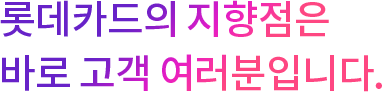
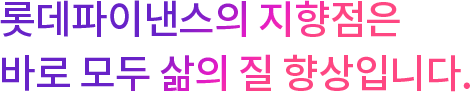
ceo 인사말 수정 및 베트남/영어 페이지 추가

diff --git a/web/company/Web-04.01.02.html b/web/company/Web-04.01.02.html
@@ -395,7 +395,7 @@
 
 			<div class="page-title-area">
 				<div class="inner-box">
-					<h2 class="page-title">CEO인사말</h2>
+					<h2 class="page-title">Lời chào từ CEO</h2>
 					<div class="layer">
 						<a href="../company/Web-04.01.html" class="link">CEO인사말</a>
 						<a href="../company/Web-04.02.01.html" class="link">회사개요</a>
@@ -411,10 +411,10 @@
 		<div class="ceo-visual">
 			<div class="box-inner">
 				<div class="visual-text">
-					<span class="tit"><img src="../images/img/txt_vaual02.png" alt="롯데파이낸스의 지향점은 바로 모두 삶의 질 향상입니다."></span>
+					<span class="tit"><img src="../images/img/txt_vaual02_02.png" alt="Mục tiêu cuối cùng của Lotte Finance là cải thiện chất lượng trong mọi khía cạnh của cuộc sống."></span>
 					<!-- p>항상 고객님께 듣고, 고객님으로부터 답을 찾아, 고객님께 돌려드리겠습니다.</p -->
 					<div class="name-box">
-						롯데파이낸스 법인장
+						Tổng Giám đốc Lotte Finance.
 						<span class="name"><img src="../images/img/txt_sign.png" alt=""></span>
 					</div>
 				</div>
@@ -423,18 +423,16 @@
 		</div>
 		<div class="content">
 			<div class="intro-text">
-				<p class="text1">안녕하십니까, 롯데파이낸스 법인장 김종극입니다.</p>
+				<p class="text1">Xin chào, đây là ông Kim Jong Geuk, Tổng Giám đốc Lotte Finance.</p>
 				<p class="text2">
-					롯데파이낸스는 2018년 2월에 베트남 소비자금융시장에 영업개시를 합니다.<br>
-					롯데파이낸스는 모회사인 롯데카드가 가진 선진기술과 오랜시간 축적된 경험을 바탕으로<br>
-					베트남 고객님의 라이프스타일에 맞는 다양한 소비자금융상품을 제공하기 위해 끊임없이 도전과  노력을 하고 있습니다.
+					Lotte Finance đã bắt đầu từ tháng 2 năm 2018 tại thị trường tài chính tiêu dùng Việt Nam.<br>
+					Dựa trên nền tảng của công nghệ tiên tiến và kinh nghiệm lâu năm trên thị trường được thừa hưởng từ công ty mẹ của chúng tôi - Lotte Card, Lotte Finance nhằm mục đích tiếp tục thử thách và phấn đấu để cung cấp một loạt các sản phẩm tài chính tiêu dùng phù hợp với lối sống của khách hàng Việt Nam.
 				</p>
 				<p class="text2">
-					롯데파이낸스는 베트남 고객 여러분의 소비생활 향상을 목표로 비지니스를 하는 만큼, 고객의 소비생활 수준을 발전시켜 다양하고 차별화된 혜택을 드리도록 새로운 시도를 할것입니다. 또한기업 활동 과정에서 사회적인 책임도 롯데파이낸스가 수행하는 모든 활동 중 중요한 업무이므로 모든 임직원과 사회공헌활동에 적극적으로 참여하고 지원하겠습니다.
+					Lấy việc cải thiện cuộc sống tiêu dùng của khách hàng làm nhiệm vụ trọng tâm của chúng tôi, Lotte Finance cố gắng cung cấp các lợi ích đa dạng và khác biệt cho khách hàng của mình. Ngoài ra, trách nhiệm xã hội cũng được Lotte Finance ưu tiên là một trong những hoạt động quan trọng nhất mà chúng tôi sẽ tập trung vào, do đó tôi sẽ tích cực tham gia cũng như hỗ trợ tất cả nhân viên của mình đóng góp cho các hoạt động xã hội.
 				</p>
 				<p class="text2">
-					롯데파이낸스는 &quot;For Wealth, For Value&quot; 라는 슬로건으로 고객 삶의 질을 향상시키는 동반자가 될 것으로 약속하겠습니다.<br>
-					신뢰가는 상품을 통해 고객에게 행복과 즐거움을 전하는 롯데파이낸스가 되겠습니다.
+					Với khẩu hiệu chính thức của công ty chúng tôi &quot;Vì sự giàu có, vì giá trị&quot;, Lotte Finance hứa hẹn sẽ là một đối tác xứng đáng để cải thiện chất lượng cuộc sống của khách hàng. Thông qua các sản phẩm đáng tin cậy, chúng tôi hy vọng sẽ mang lại cho khách hàng niềm vui và niềm vui trong suốt hành trình của họ với Lotte Finance.
 				</p>
 			</div>
 		</div>

diff --git a/web/company/Web-04.01.03.html b/web/company/Web-04.01.03.html
@@ -411,10 +411,10 @@
 		<div class="ceo-visual">
 			<div class="box-inner">
 				<div class="visual-text">
-					<span class="tit"><img src="../images/img/txt_vaual02.png" alt="롯데파이낸스의 지향점은 바로 모두 삶의 질 향상입니다."></span>
+					<span class="tit"><img src="../images/img/txt_vaual02_03.png" alt="The ultimate goal of Lotte Finance is to improve quality in all aspects of life."></span>
 					<!-- p>항상 고객님께 듣고, 고객님으로부터 답을 찾아, 고객님께 돌려드리겠습니다.</p -->
 					<div class="name-box">
-						롯데파이낸스 법인장
+						Lotte Finance’s General Director
 						<span class="name"><img src="../images/img/txt_sign.png" alt=""></span>
 					</div>
 				</div>
@@ -423,18 +423,20 @@
 		</div>
 		<div class="content">
 			<div class="intro-text">
-				<p class="text1">안녕하십니까, 롯데파이낸스 법인장 김종극입니다.</p>
+				<p class="text1">Hello, this is Lotte Finance’s General Director Mr. Kim Jong Geuk.</p>
 				<p class="text2">
-					롯데파이낸스는 2018년 2월에 베트남 소비자금융시장에 영업개시를 합니다.<br>
-					롯데파이낸스는 모회사인 롯데카드가 가진 선진기술과 오랜시간 축적된 경험을 바탕으로<br>
-					베트남 고객님의 라이프스타일에 맞는 다양한 소비자금융상품을 제공하기 위해 끊임없이 도전과  노력을 하고 있습니다.
+					Lotte Finance has since February 2018 entered Vietnam’s consumer finance market.<br>
+					Based on the foundation of advanced technology and longtime experience in the market inherited from our parent company - Lotte Card,<br>
+					Lotte Finance aims to continue challenging and striving in order to provide a wide range of consumer financial products tailored to the lifestyle of our Vietnamese customers.
 				</p>
 				<p class="text2">
-					롯데파이낸스는 베트남 고객 여러분의 소비생활 향상을 목표로 비지니스를 하는 만큼, 고객의 소비생활 수준을 발전시켜 다양하고 차별화된 혜택을 드리도록 새로운 시도를 할것입니다. 또한기업 활동 과정에서 사회적인 책임도 롯데파이낸스가 수행하는 모든 활동 중 중요한 업무이므로 모든 임직원과 사회공헌활동에 적극적으로 참여하고 지원하겠습니다.
+					Taking improving customer’s consumption life as our centered mission, Lotte Finance attempts to provide diverse and differentiated benefits to its customers.<br>
+					In addition, social responsibility is also prioritized by Lotte Finance as one of the most important activities that we shall focus on,<br>
+					I will therefore actively participate in as well as support all our employees to contribute to social activities.
 				</p>
 				<p class="text2">
-					롯데파이낸스는 &quot;For Wealth, For Value&quot; 라는 슬로건으로 고객 삶의 질을 향상시키는 동반자가 될 것으로 약속하겠습니다.<br>
-					신뢰가는 상품을 통해 고객에게 행복과 즐거움을 전하는 롯데파이낸스가 되겠습니다.
+					With our company official slogan &quot;For Wealth, For Value,&quot; Lotte Finance promises to be a worthy partner in improving our customer quality of life.<br>
+					Through our trustworthy products, we expect to bring our customer happiness and joy throughout their journey with Lotte Finance.
 				</p>
 			</div>
 		</div>

diff --git a/web/status.html b/web/status.html
@@ -690,14 +690,34 @@
 			</thead>
 			<tbody>
 				<tr>
-					<td>CEO인사말</td>
-					<td></td>
+					<td rowspan="3">CEO인사말</td>
+					<td>한국어</td>
 					<td></td>
 					<td></td>
 					<td>company/</td>
 					<td class="right"><a target="_blank" href="company/Web-04.01.html">Web-04.01.html</a></td>
 					<td class="stat">☆</td>
 					<td class="date">2018-11-19</td>
+					<td></td>
+				</tr>
+				<tr>
+					<td>베트남어</td>
+					<td></td>
+					<td></td>
+					<td>company/</td>
+					<td class="right"><a target="_blank" href="company/Web-04.01.02.html">Web-04.01.02.html</a></td>
+					<td class="stat">☆</td>
+					<td class="date">2018-12-11</td>
+					<td></td>
+				</tr>
+				<tr>
+					<td>영어</td>
+					<td></td>
+					<td></td>
+					<td>company/</td>
+					<td class="right"><a target="_blank" href="company/Web-04.01.03.html">Web-04.01.03.html</a></td>
+					<td class="stat">☆</td>
+					<td class="date">2018-12-11</td>
 					<td></td>
 				</tr>
 				<tr>

diff --git a/web/css/common.css b/web/css/common.css
@@ -3480,9 +3480,9 @@ body,
 .ceo-visual .box-inner {
 	position:relative;
 	width:1000px;
-	height:434px;
+	min-height:435px;
 	margin:0 auto;
-	padding:196px 0 104px;
+	padding:180px 0 50px;
 	box-sizing:border-box;
 }
 .ceo-visual .visual-text {}
@@ -3498,19 +3498,24 @@ body,
 	line-height:25px;
 }
 .ceo-visual .visual-text .name-box {
-	margin-top:20px;
-	color:#908f95;
-	font-size:18px;
+	position:absolute;
+	left:0;
+	bottom:35px;
+	color:#111;
+	font-size:16px;
 	font-weight:600;
+	line-height:44px;
 }
 .ceo-visual .visual-text .name-box .name {
 	display:inline-block;
 	margin-left:15px;
+	font-size:0;
 	vertical-align:middle;
+	line-height:0;
 }
 .ceo-visual .visual-img {
 	position:absolute;
-	right:72px;
+	right:-30px;
 	bottom:0;
 }
 .ceo-visual .visual-img img {vertical-align:top;}
